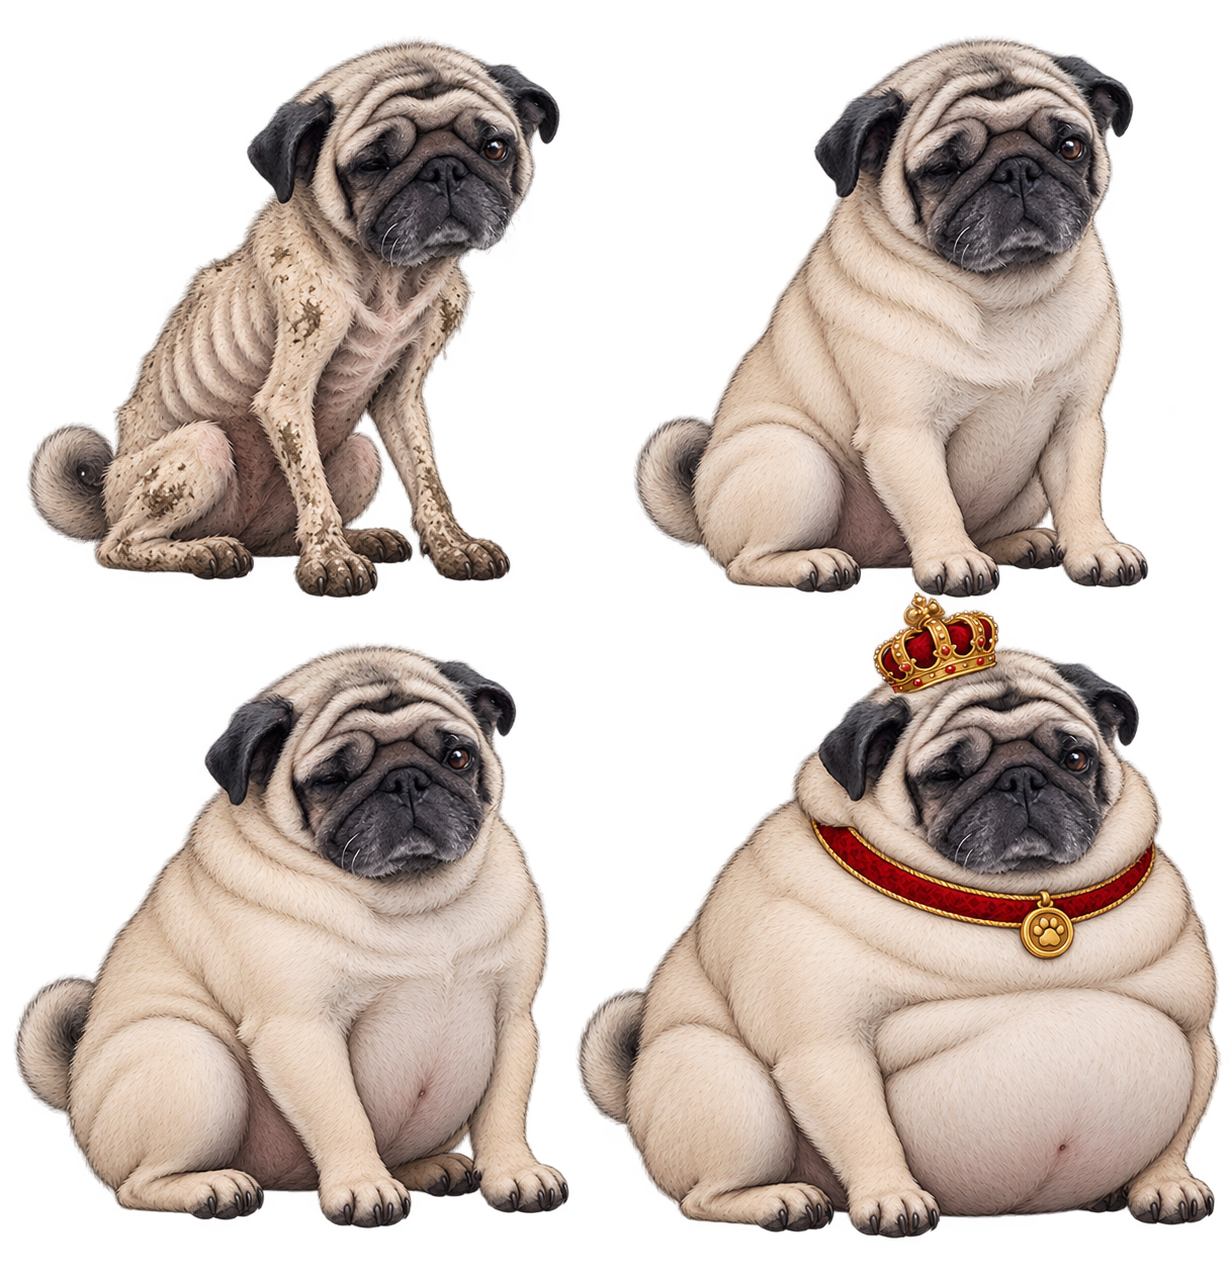
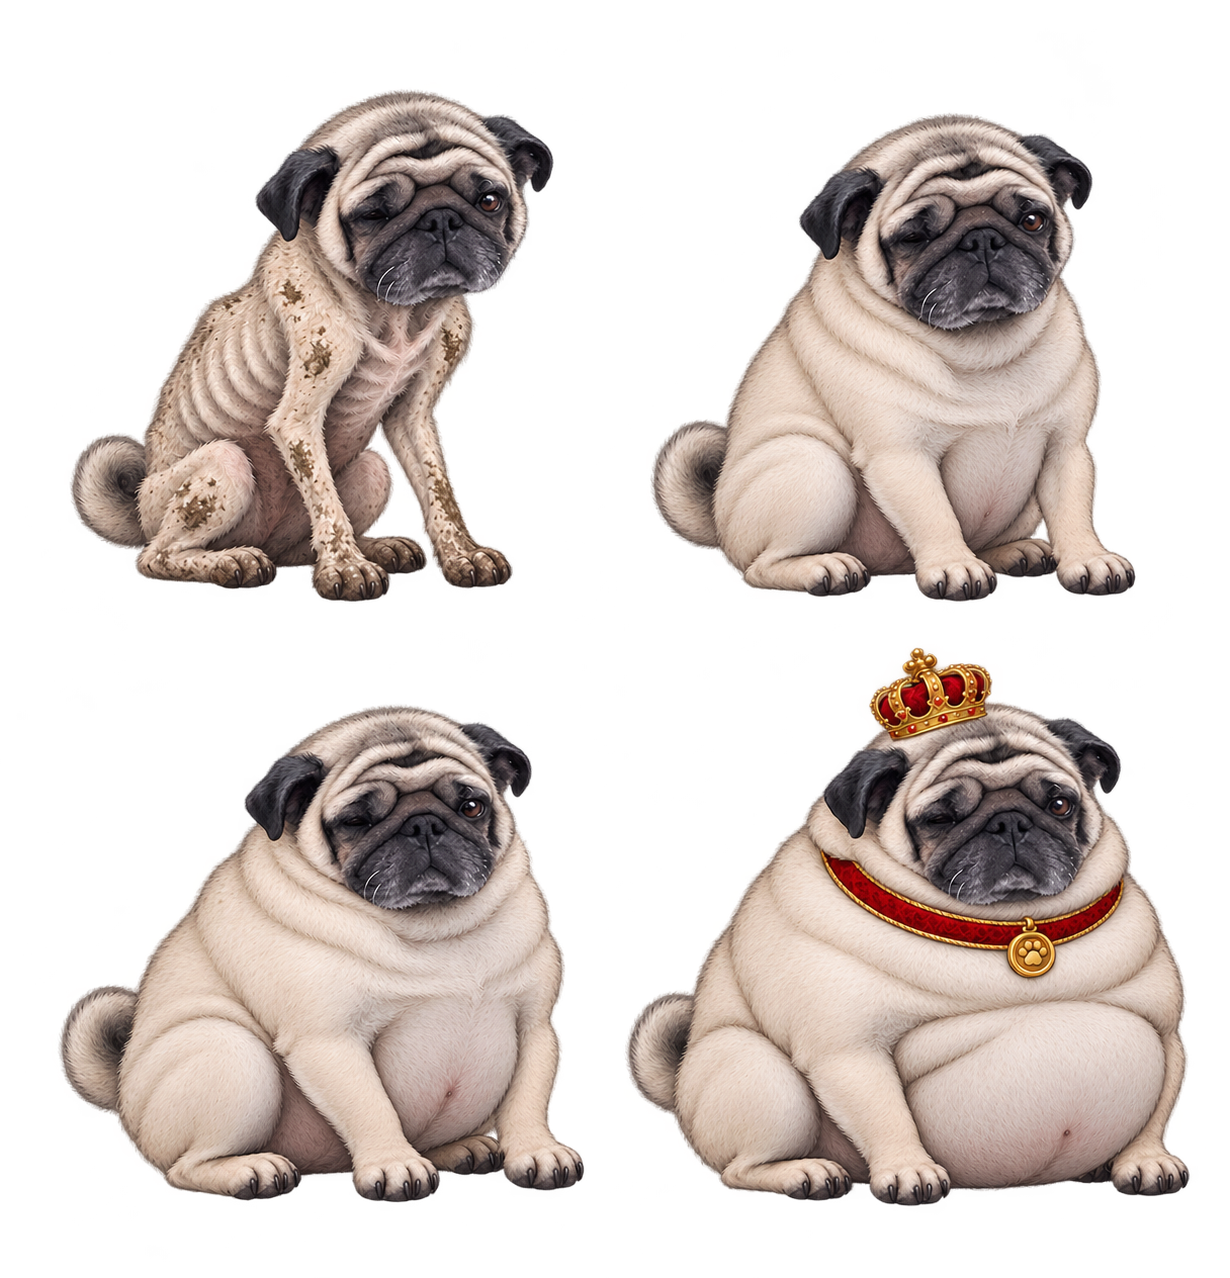
Polish custom pug sprite atlas and eliminate neighboring sprite bleed

diff --git a/style.css b/style.css
@@ -1,2 +1,4 @@
 :root{--cream:#f6f1e7;--ink:#353d32;--muted:#7b806e;--line:#e2dfd1;--olive:#637449;--coral:#bf6d4d;--gold:#bf963e;--pebble:#976643;--pebble-edge:#70492e;font-family:ui-sans-serif,-apple-system,BlinkMacSystemFont,"Segoe UI",sans-serif;color:var(--ink);background:var(--cream);font-synthesis:none}*{box-sizing:border-box}body{margin:0}button,a{-webkit-tap-highlight-color:transparent}button{font:inherit;cursor:pointer}button:disabled{cursor:default}button:focus-visible,a:focus-visible{outline:3px solid var(--coral);outline-offset:4px}button{touch-action:manipulation}a{color:inherit}h1,h2,h3,p{margin:0}h1,h2{font-family:Georgia,"Times New Roman",serif;font-weight:500}button[hidden],[hidden]{display:none!important}.topbar{max-width:1400px;margin:auto;padding:24px 46px;display:flex;justify-content:space-between;align-items:center;border-bottom:1px solid var(--line)}.brand{font-size:16px;font-weight:750;text-decoration:none;display:flex;align-items:center;gap:10px}.brand-paw{display:grid;place-items:center;width:31px;height:31px;border-radius:50%;background:var(--ink);color:var(--cream);font-size:22px}.version{font-size:10px;letter-spacing:.06em;font-weight:500;background:#eae7d9;padding:5px 8px;border-radius:4px;margin-left:7px}.sound-toggle{background:none;border:1px solid var(--line);padding:9px 12px;border-radius:9px;color:var(--muted);font-size:12px}main{max-width:1400px;margin:auto;padding:34px 46px 20px}.intro{display:flex;justify-content:space-between;align-items:center;gap:25px;margin-bottom:29px}.eyebrow{font-size:10px;letter-spacing:.15em;font-weight:700;color:var(--muted);line-height:1.6}h1{font-size:clamp(29px,3.1vw,44px);line-height:1.15;letter-spacing:-.03em;margin:6px 0 10px}.lead{font-size:13px;color:var(--muted);line-height:1.6}.mobile-break{display:none}.balance{display:flex;align-items:center;gap:16px;border:1px solid var(--line);border-radius:15px;padding:18px 21px;background:#fffaf0;min-width:270px}.pebble{display:inline-block;width:31px;height:30px;flex:none;background:var(--pebble);border:2px solid var(--pebble-edge);border-radius:35% 45% 31% 42%;transform:rotate(-18deg);box-shadow:inset 4px 4px 0 #ffffff25,inset -3px -3px 0 #00000015,2px 3px 0 #00000008}.pebble.small{width:11px;height:11px;border-width:1px;box-shadow:inset 2px 2px 0 #ffffff25}.balance-label{display:block;color:var(--muted);font-size:11px;margin-bottom:3px}.balance strong{font-size:31px;display:block;font-weight:750;line-height:1.1;font-variant-numeric:tabular-nums;letter-spacing:-.04em}.yield{align-self:flex-end;margin-left:16px;font-size:10px;color:var(--olive);background:#e9eddc;border-radius:5px;padding:5px 8px;white-space:nowrap}.game-layout{display:grid;grid-template-columns:minmax(0,1.85fr) minmax(300px,1fr);gap:32px;align-items:start}.scene-frame{border-radius:17px;overflow:hidden;border:1px solid #cdceb7;box-shadow:0 10px 35px #3b34210b}.scene{width:100%;display:block;aspect-ratio:3/2;border:0;position:relative;overflow:hidden;background-color:#a3956f;background-image:url("backgrounds.png");background-size:200% 200%;background-position:0 0;text-align:left;isolation:isolate;user-select:none}.scene[data-stage="1"]{background-position:100% 0}.scene[data-stage="2"]{background-position:0 100%}.scene[data-stage="3"]{background-position:100% 100%}.location{position:absolute;z-index:5;top:18px;left:18px;background:#fff9eadf;color:#383c2f;border-radius:7px;padding:8px 11px;font-size:11px;box-shadow:0 2px 7px #0000000a}.location>span:first-child{margin-right:3px;color:var(--olive)}.chapter{position:absolute;top:24px;right:19px;font-size:9px;letter-spacing:.13em;color:#fffff3;text-shadow:0 1px 4px #0009;font-weight:700;z-index:5}.character{position:absolute;left:5%;bottom:8%;width:43%;aspect-ratio:1;z-index:2;pointer-events:none;transform-origin:50% 94%}.pug-sprite{position:absolute;inset:0;background-image:url("pugs.png");background-size:200% 200%;background-position:0 0;animation:breathe 4s ease-in-out infinite;transform-origin:50% 94%;filter:drop-shadow(2px 5px 2px #25211635)}[data-stage="1"] .pug-sprite{background-position:100% 0}[data-stage="2"] .pug-sprite{background-position:0 100%}[data-stage="3"] .pug-sprite{background-position:100% 100%}.dog-shadow{position:absolute;width:32%;height:4%;left:10%;bottom:9%;background:#2b21195c;border-radius:50%;filter:blur(6px);z-index:1}.digging-arm{position:absolute;left:65%;top:73%;width:49%;height:17%;transform-origin:0 28%;transform:rotate(-15deg);opacity:0;z-index:3}.arm-fur{position:absolute;left:0;top:15%;width:74%;height:43%;border:1px solid #6b615b;border-radius:45%;background:linear-gradient(170deg,#ddd0b7,#b5a48d 80%);box-shadow:0 4px 3px #0002}.arm-paw{position:absolute;left:66%;top:7%;width:25%;height:60%;border-radius:35% 45% 44% 35%;background:linear-gradient(170deg,#d1c3a9,#99846b);border:1px solid #6b615b;box-shadow:2px 2px 3px #0003}.arm-paw:after{content:"";position:absolute;right:1px;top:22%;width:4px;height:55%;border-radius:30%;border-right:1px solid #3c3028;box-shadow:-3px 0 0 #0002}.held-tool{position:absolute;left:65%;top:-90%;width:74%;aspect-ratio:1;transform:rotate(-75deg)}.held-tool svg{width:100%;height:100%;filter:drop-shadow(1px 2px 1px #0004)}.digging-arm[data-tool="0"] .held-tool{display:none}.digging .digging-arm{opacity:1;animation:dig-arm .28s ease-in-out}.digging .pug-sprite{animation:dig-body .28s ease-in-out}.scene-hint{position:absolute;bottom:17px;left:50%;transform:translateX(-50%);color:#fffbed;font-size:10px;padding:7px 11px;white-space:nowrap;background:#2d2a24b8;border:1px solid #ffffff24;backdrop-filter:blur(6px);border-radius:20px;z-index:5;pointer-events:none}.particles{position:absolute;inset:0;pointer-events:none;z-index:6}.floating-number{position:absolute;font-size:27px;font-weight:800;color:#fff9cf;text-shadow:0 2px 1px #4c382e,1px 0 1px #4c382e,-1px 0 1px #4c382e;animation:float-up .75s ease-out forwards}.flying-pebble{position:absolute;width:9px;height:8px;background:var(--pebble);border:1px solid var(--pebble-edge);border-radius:30%;animation:pebble-fly .6s ease-out forwards;box-shadow:inset 2px 1px 0 #fff3}.art-loading{position:absolute;inset:0;display:grid;place-items:center;color:var(--cream);background:#4c4c3b;z-index:10;font-size:14px;pointer-events:none}.scene-controls{background:#fffaf0;padding:14px 18px;display:flex;align-items:center;justify-content:space-between;gap:12px}.little-label{font-size:8px;letter-spacing:.12em;color:var(--muted);display:block;margin-bottom:4px}.scene-controls strong{font-size:12px;font-weight:650}.dig-button{border:0;background:var(--olive);color:#fffdf1;border-radius:8px;padding:12px 22px;display:flex;align-items:center;gap:18px;font-size:14px;font-weight:650;box-shadow:0 3px 0 #455636;transition:background .15s,transform .1s}.dig-button:hover{background:#566940}.dig-button:active{transform:translateY(2px);box-shadow:0 1px 0 #455636}.dig-button>span:first-child{font-size:17px}.dig-button>span:last-child{font-size:11px;opacity:.8}.pug-status{display:flex;gap:12px;justify-content:space-between;align-items:center;margin-top:23px}.pug-status h2{font-size:22px;margin:4px 0 7px;letter-spacing:-.02em}.pug-status p:not(.eyebrow){font-size:12px;color:var(--muted);line-height:1.5}.status-tag{font-size:9px;border:1px solid #d6d9c8;padding:7px 9px;border-radius:5px;color:var(--olive);background:#eceddc;white-space:nowrap}.journey{display:flex;position:relative;justify-content:space-around;margin-top:24px}.journey-track,.journey-progress{position:absolute;left:12.5%;top:13px;height:2px;background:#dbdecf;width:75%}.journey-progress{background:var(--olive);width:0;transition:width .5s}.milestone{position:relative;text-align:center;z-index:1;flex:1;color:#929884}.milestone span{border-radius:50%;border:1px solid #d7dacc;display:grid;place-items:center;width:28px;height:28px;background:var(--cream);font-size:10px;margin:auto}.milestone strong{display:block;margin-top:8px;font-size:10px;font-weight:500}.milestone.current span,.milestone.done span{background:var(--olive);color:white;border-color:var(--olive)}.milestone.current strong,.milestone.done strong{color:var(--olive);font-weight:700}.milestone.current span{box-shadow:0 0 0 4px #63744915}.session-stats{display:flex;justify-content:space-between;border-top:1px solid var(--line);padding-top:16px;margin-top:21px;font-size:10px;color:var(--muted);gap:15px}.session-stats strong{margin-left:8px;color:var(--ink);font-variant-numeric:tabular-nums}.shop-heading{display:flex;justify-content:space-between;gap:10px;align-items:center}.shop-heading h2{font-size:26px;margin-top:4px;letter-spacing:-.03em}.section-number{font-family:Georgia,serif;font-size:33px;color:#d2d4c1;font-style:italic}.shop-description{font-size:11px;color:var(--muted);margin:10px 0 16px;line-height:1.6}.tool-list{display:flex;flex-direction:column;gap:10px}.tool-card{border:1px solid var(--line);border-radius:12px;background:#fffcf5;display:grid;grid-template-columns:52px 1fr auto;align-items:center;column-gap:11px;position:relative;padding:13px 12px 23px;transition:border-color .2s,background .2s}.tool-icon{width:52px;height:60px;border-radius:9px;background:#eeeee1;display:grid;place-items:center}.tool-icon svg{width:43px;height:49px}.tool-info h3{font-size:12px;font-weight:700;margin-bottom:5px}.tool-info p{font-size:9px;line-height:1.4;color:var(--muted);max-width:175px}.tool-yield{font-size:10px;display:inline-block;margin-top:6px;color:var(--olive);font-weight:650}.buy-tool{background:var(--olive);border:1px solid var(--olive);color:#fffbed;display:flex;justify-content:center;align-items:center;gap:6px;min-width:52px;font-size:11px;font-weight:700;border-radius:6px;padding:9px 7px}.buy-tool:disabled{background:#ecebdd;color:#9a9d8c;border-color:#e5e5d6}.buy-tool:disabled .pebble{opacity:.5}.tool-note{position:absolute;bottom:6px;right:12px;font-size:8px;color:var(--muted)}.tool-card.owned{background:#f0f2e7;border-color:#d7deca}.tool-card.owned .buy-tool{background:#e1e8d4;color:var(--olive);border-color:transparent}.owned-check{font-size:17px;line-height:12px}.tool-card.available{border-color:#9cab84}.tool-card.locked .tool-icon,.tool-card.locked .tool-info{opacity:.65}.pug-upgrade{padding:20px 18px 14px;margin-top:26px;border:1px solid #dddbc5;border-radius:14px;background:#eeefdf}.pug-upgrade .eyebrow{font-size:9px}.pug-upgrade .shop-heading h2{font-size:25px}.upgrade-copy{display:flex;gap:14px;align-items:center;margin:18px 0 13px}.upgrade-symbol{color:var(--coral);font-family:Georgia,serif;font-size:42px;width:42px;text-align:center;flex:none}.upgrade-copy h3{font-size:12px;margin-bottom:6px}.upgrade-copy p{font-size:10px;color:var(--muted);line-height:1.6}.upgrade-benefit{font-size:9px;color:var(--olive);padding:9px 0;border-top:1px solid #daddc6}.upgrade-button{display:flex;justify-content:space-between;align-items:center;background:var(--coral);border:0;border-radius:7px;color:#fff6e6;padding:12px 13px;width:100%;font-size:12px;font-weight:650;margin-top:3px}.upgrade-button:hover:enabled{background:#ac5c40}.upgrade-button:disabled{background:#dcdccc;color:#919580}.price{display:flex;gap:7px;align-items:center}.purchase-progress{height:3px;background:#daddc8;border-radius:3px;margin-top:13px;overflow:hidden}.purchase-progress>span{display:block;height:100%;width:0;background:var(--olive);transition:width .2s}.remaining{font-size:9px;color:var(--muted);margin-top:8px;text-align:center}.small-tip{display:flex;align-items:center;gap:14px;justify-content:center;padding-top:19px;font-size:10px;color:var(--muted);line-height:1.7}.small-tip>span{font-size:26px;color:#a5ab90}.victory{margin-top:28px;border:1px solid #d3bc7b;border-radius:13px;background:#f4e6bd;padding:21px 24px;display:flex;align-items:center;gap:23px}.victory>span{font-size:40px;color:#98711f}.victory h2{font-size:24px;margin-bottom:6px}.victory p{font-size:12px;color:#827048;line-height:1.6}footer{margin-top:31px;padding-top:18px;border-top:1px solid var(--line);display:flex;justify-content:space-between;gap:15px;font-size:9px;line-height:1.8;color:var(--muted)}footer button{background:none;border:0;padding:0;color:var(--olive);font-size:9px;text-decoration:underline;margin-left:7px}.toast{position:fixed;bottom:24px;left:50%;transform:translate(-50%,20px);background:#353d32;color:#fffae9;border:1px solid #ffffff20;padding:14px 21px;border-radius:11px;font-size:12px;z-index:20;box-shadow:0 10px 25px #0002;opacity:0;pointer-events:none;transition:opacity .2s,transform .2s;max-width:90%;text-align:center;line-height:1.5}.toast.visible{opacity:1;transform:translate(-50%,0)}dialog{border:1px solid var(--line);border-radius:16px;padding:26px;background:var(--cream);color:var(--ink);width:min(440px,90%);box-shadow:0 20px 80px #0003}dialog::backdrop{background:#20241c70;backdrop-filter:blur(4px)}dialog h2{font-size:26px;margin-bottom:12px}dialog p{font-size:13px;line-height:1.7;color:var(--muted)}dialog>div{display:flex;justify-content:space-between;gap:12px;margin-top:25px}dialog button{border:1px solid var(--line);border-radius:7px;padding:10px 12px;background:#fffbf1;color:var(--olive);font-size:12px}#confirm-restart{background:var(--olive);color:#fff;border-color:var(--olive)}body[data-stage="3"]{--pebble:#d8ae45;--pebble-edge:#a57824}body[data-stage="3"] .balance{background:#fbf0d0;border-color:#d9c68d}body[data-stage="3"] .status-tag{background:#f3e6bd;border-color:#d8bf76;color:#9b7522}body[data-stage="3"] .pug-upgrade{background:#f1e9cf;border-color:#d7c799}@keyframes breathe{50%{transform:scale(1.009,1.012)}}@keyframes dig-body{50%{transform:translateY(-3px) rotate(1.5deg)}}@keyframes dig-arm{0%{transform:rotate(-40deg)}55%{transform:rotate(15deg)}100%{transform:rotate(-15deg)}}@keyframes float-up{0%{opacity:1;transform:translate(-50%,0) scale(.85)}20%{transform:translate(-50%,-12px) scale(1.08)}100%{opacity:0;transform:translate(-50%,-75px) scale(.9)}}@keyframes pebble-fly{0%{opacity:1;transform:translate(0,0)}70%{opacity:1}100%{opacity:0;transform:translate(var(--dx),var(--dy)) rotate(var(--spin))}}@media(min-width:1550px){main{padding-top:42px}.scene-frame{margin-top:1px}}@media(max-width:1050px){.topbar{padding:20px 25px}main{padding:28px 25px 18px}.game-layout{gap:23px;grid-template-columns:minmax(0,1.5fr) minmax(295px,1fr)}.pug-status{align-items:flex-start;flex-direction:column}.pug-status h2{font-size:20px}.balance{min-width:230px;padding:14px 16px;gap:12px}.yield{margin-left:5px}.tool-card{grid-template-columns:44px 1fr auto;column-gap:8px}.tool-icon{width:44px;height:56px}.tool-info p{font-size:9px}.scene-controls{padding:12px}.dig-button{padding:11px 17px;gap:11px}}@media(max-width:760px){.topbar{padding:16px 20px}.version{display:none}main{padding:25px 20px 16px}.intro{display:block;margin-bottom:21px}h1{font-size:36px}.balance{margin-top:21px;padding:12px 16px;width:100%;min-width:0;gap:14px}.balance-label{font-size:10px}.balance strong{font-size:27px}.yield{margin-left:auto;align-self:center;font-size:11px}.balance .pebble{width:26px;height:25px}.game-layout{grid-template-columns:1fr;gap:29px}.pug-status{flex-direction:row;align-items:center}.pug-status h2{font-size:21px}.scene-controls{padding:14px 16px}.dig-button{padding:12px 22px;gap:18px}.scene-hint{font-size:10px}.character{width:43%}.shop-heading h2{font-size:27px}.tool-card{grid-template-columns:58px 1fr auto;padding:14px 15px 25px;column-gap:14px}.tool-icon{width:58px;height:62px}.tool-icon svg{width:46px;height:53px}.tool-info h3{font-size:14px}.tool-info p{font-size:10px;max-width:none}.tool-yield{font-size:11px}.buy-tool{font-size:12px;min-width:64px;padding:11px 8px}.tool-note{font-size:9px;right:15px}.pug-upgrade{margin-top:21px;padding:21px}.upgrade-copy h3{font-size:14px}.upgrade-copy p{font-size:12px}.upgrade-button{padding:15px;font-size:14px}.upgrade-benefit,.remaining{font-size:10px}.small-tip{font-size:11px}.session-stats{font-size:11px}.journey{margin-top:24px}.milestone strong{font-size:11px}footer{flex-direction:column;gap:5px;font-size:10px;margin-top:24px}footer button{font-size:10px}.toast{width:calc(100% - 36px);bottom:16px}.victory h2{font-size:23px}.victory{padding:18px;gap:15px}}@media(max-width:390px){main{padding-left:14px;padding-right:14px}.topbar{padding-left:14px;padding-right:14px}.brand{font-size:14px}h1{font-size:31px}.pug-status{align-items:flex-start;flex-direction:column}.chapter{font-size:8px;right:12px;top:21px}.location{left:12px;top:13px;font-size:10px}.tool-card{grid-template-columns:47px 1fr auto;column-gap:10px;padding-left:10px;padding-right:10px}.tool-icon{width:47px}.tool-info h3{font-size:12px}.buy-tool{min-width:54px}.scene-hint{font-size:8px}.scene-controls strong{font-size:11px}.dig-button{padding:12px 17px;gap:13px}.scene-controls{padding:12px}}
+/* Keep the adjacent royal tail outside the garden character's sprite cell. */
+[data-stage="2"] .pug-sprite{clip-path:inset(0 5% 0 0)}
 @media(prefers-reduced-motion:reduce){*,*:before,*:after{animation:none!important;transition:none!important}.digging .digging-arm{transform:rotate(10deg)}}
